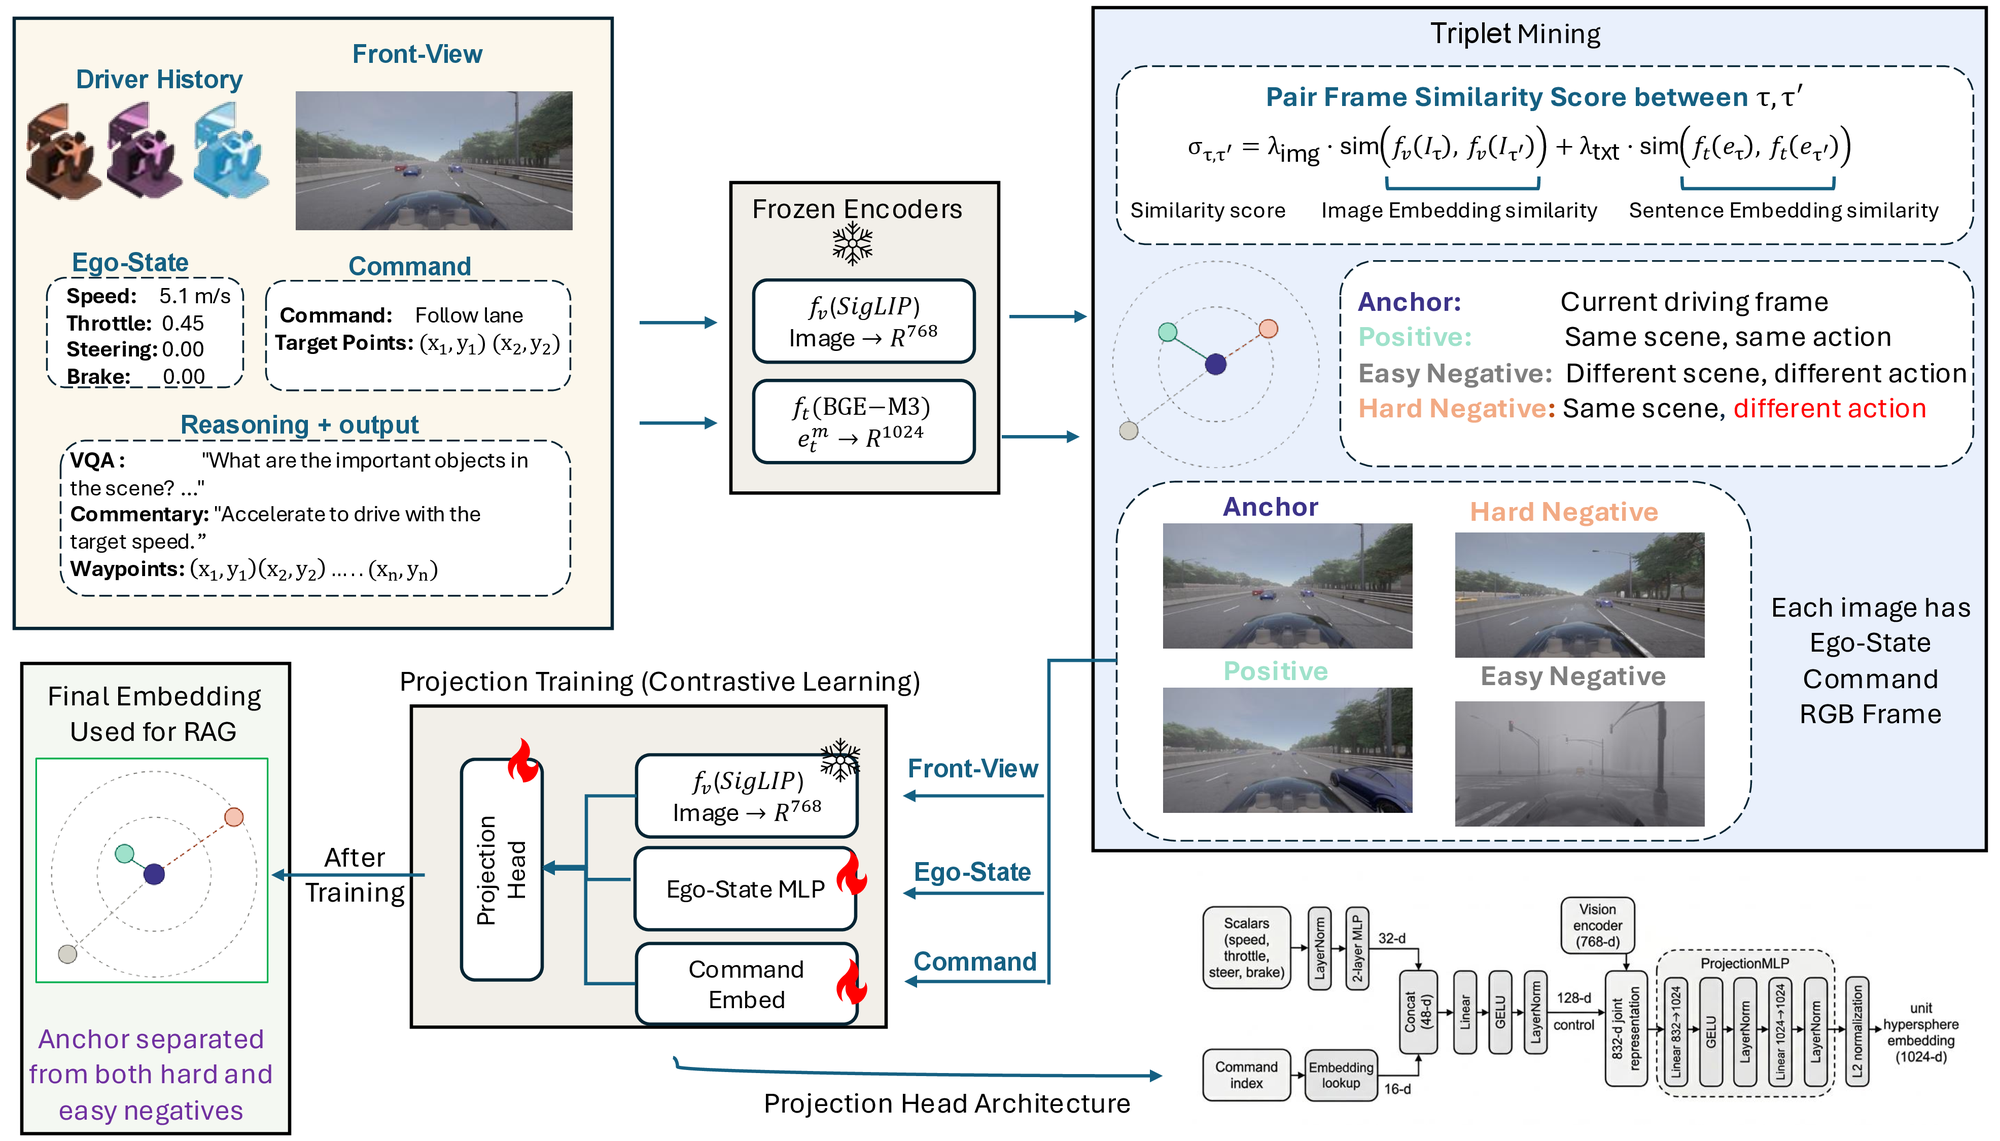
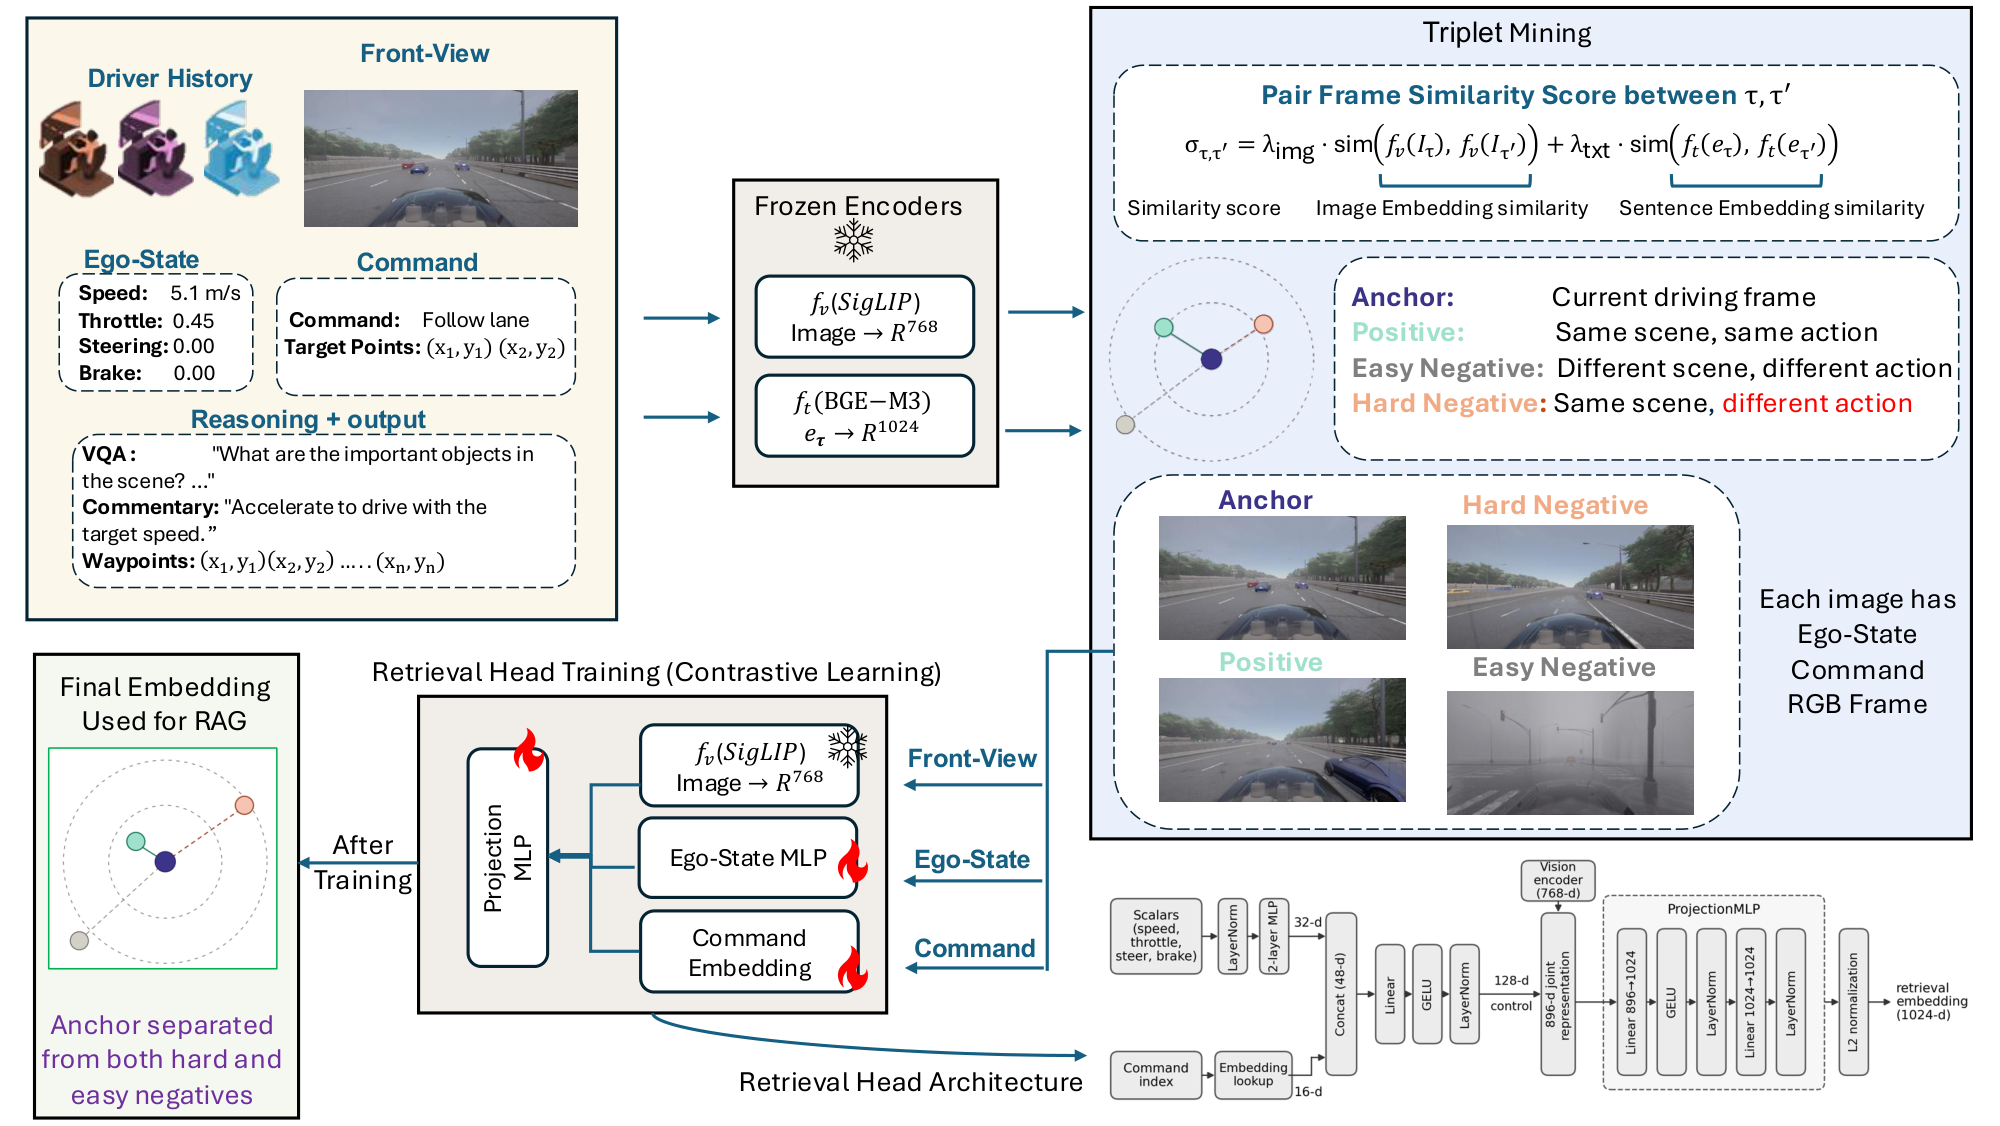
Match the WACV camera-ready: abstract, contributions, new Figure 3
- Abstract is the camera-ready abstract.
- Contributions and the motivation paragraph follow the paper (DS 6.7-11.6% over
  Drive My Way per style; synthetic style data among the indirect methods).
- Dataset: each participant drives each of their routes three times.
- Search/share descriptions no longer say 'database swap'.
- triplet.png re-rendered from the camera-ready Figure 3; sitemap lastmod.

diff --git a/index.html b/index.html
@@ -4,7 +4,7 @@
   <meta charset="utf-8">
   <meta name="viewport" content="width=device-width, initial-scale=1">
   <meta name="google-site-verification" content="H94OEA1dDngGpa_hpkiC9sqMeTe-Pmt7YJoAIQyXToQ">
-  <meta name="description" content="PersonaDrive (WACV 2027, UC Irvine) conditions a vision-language-action driving agent on retrieved human demonstrations from a style-instructed dataset for closed-loop CARLA simulation. Switching style is a single database swap.">
+  <meta name="description" content="PersonaDrive (WACV 2027, UC Irvine) conditions a vision-language-action driving agent on retrieved human demonstrations from a style-instructed dataset for closed-loop CARLA simulation. Switching style only means searching a different index, with no retraining.">
   <meta name="keywords" content="PersonaDrive, autonomous driving, vision-language-action, retrieval-augmented generation, driving style, CARLA, Bench2Drive">
   <title>PersonaDrive: Human-Style Retrieval-Augmented VLA Agents for Closed-Loop Driving Simulation</title>
   <link rel="canonical" href="https://pervasiveautonomylab.github.io/personadrive-landpage/">
@@ -13,13 +13,13 @@
   <meta property="og:site_name" content="PersonaDrive">
   <meta property="og:url" content="https://pervasiveautonomylab.github.io/personadrive-landpage/">
   <meta property="og:title" content="PersonaDrive: Human-Style Retrieval-Augmented VLA Agents for Closed-Loop Driving Simulation">
-  <meta property="og:description" content="A VLA driving agent conditioned on retrieved human demonstrations. Switching driving style is a single database swap.">
+  <meta property="og:description" content="A VLA driving agent that takes its driving style from retrieved human demonstrations. Switching style only means searching a different index, with no retraining.">
   <meta property="og:image" content="https://pervasiveautonomylab.github.io/personadrive-landpage/static/videos/teaser.jpg">
   <meta property="og:image:width" content="1280">
   <meta property="og:image:height" content="720">
   <meta name="twitter:card" content="summary_large_image">
   <meta name="twitter:title" content="PersonaDrive: Human-Style Retrieval-Augmented VLA Agents for Closed-Loop Driving Simulation">
-  <meta name="twitter:description" content="A VLA driving agent conditioned on retrieved human demonstrations. Switching driving style is a single database swap.">
+  <meta name="twitter:description" content="A VLA driving agent that takes its driving style from retrieved human demonstrations. Switching style only means searching a different index, with no retraining.">
   <meta name="twitter:image" content="https://pervasiveautonomylab.github.io/personadrive-landpage/static/videos/teaser.jpg">
 
   <script type="application/ld+json">
@@ -147,26 +147,26 @@
     <h2 class="title is-3 has-text-centered">Abstract</h2>
     <div class="content has-text-justified">
       <p>
-        Closed-loop driving simulators populate their environments with non-ego traffic agents that behave much the same
-        way, whether from rule-based traffic managers or from learned models trained toward a single behavioral mode.
-        Recent work introduces style variation through post-hoc labels or LLM-inferred reward weights, but these act as
-        proxies for what a style should reward rather than demonstrations of humans explicitly asked to drive in that style.
+        Closed-loop driving simulators mostly fill their environments with traffic agents that behave alike, whether
+        they are rule-based or learned. Recent methods that control driving style learn it from labels added to recorded
+        driving afterwards, from synthetic data generated to reflect each style, or from reward weights estimated by a
+        large language model (LLM). All of these are indirect estimates of a style, not recordings of people who were
+        instructed to drive in it.
       </p>
       <p>
-        We introduce PersonaDrive, a pipeline that conditions a vision-language-action (VLA) driving agent on retrieved
-        demonstrations from a style-instructed dataset in which 15 participants drive CARLA Leaderboard routes under
-        aggressive, neutral, and conservative instructions on a driver-in-the-loop rig. The pipeline mines behavioral
-        triplets offline with a combined image-text similarity score, trains a lightweight retrieval head fusing frozen
-        visual features with a small control encoder over per-style databases, and fine-tunes one VLA backbone to read
-        retrieved context points as in-context demonstrations. Switching style at inference is a single database swap, so
-        one set of weights serves every style with no per-style retraining.
+        We introduce PersonaDrive, a vision-language-action (VLA) driving agent that takes its style from retrieved
+        human demonstrations. The demonstrations come from a new dataset in which 15 participants drove CARLA routes on a
+        driving simulator under conservative, neutral, and aggressive instructions. PersonaDrive trains a lightweight
+        retrieval head on features from a frozen image encoder and on control signals over per-style databases, and
+        fine-tunes one VLA backbone over the retrieved demonstrations. Switching style only means searching a different
+        FAISS index, with no retraining.
       </p>
       <p>
-        On Bench2Drive, PersonaDrive (no style) improves the driving score by 4.6% over SimLingo and 2.5% over HiP-AD.
-        Under style conditioning it attains the highest driving score in every style within a 2.1-point band
-        (87.55–89.62), its weakest style surpassing the strongest baseline (DMW) by 5.8%, while average speed and
-        acceleration rise by 19.8% and 24.9% from the conservative to the aggressive instruction. Each agent is evaluated
-        individually as a driving policy.
+        On the Bench2Drive benchmark without style conditioning, PersonaDrive improves the Driving Score by 4.6% over
+        SimLingo and by 2.5% over HiP-AD, a gain that fine-tuning without retrieval does not reproduce. With style
+        conditioning, PersonaDrive outperforms the strongest baseline, Drive My Way, in every style, with a Driving Score
+        6.7% to 11.6% higher. Its driving also follows the instruction, since average speed rises by 19.8% from the
+        conservative to the aggressive style. Each traffic agent is evaluated individually as a driving policy.
       </p>
     </div>
   </div>
@@ -181,10 +181,10 @@
         Rule-based traffic managers and learned traffic models produce agents that behave alike. Real traffic spans
         conservative, neutral and aggressive drivers, and those differences matter most at merges, unprotected turns and
         in dense urban traffic, where the ego policy has to react to the people around it.</p>
-      <p><b>Why not style labels or reward weights?</b><br>
-        Existing personalization methods supervise style with post-hoc observational labels or with reward weights
-        inferred by an LLM. Both approximate what a style should reward. Neither records what people actually do when
-        they are asked to drive in that style.</p>
+      <p><b>Why not style labels, synthetic data or reward weights?</b><br>
+        Existing methods learn style from labels added to recorded driving afterwards, from synthetic data generated
+        for each style, or from reward weights inferred by an LLM. All of these are indirect estimates of a style.
+        None records what people actually do when they are asked to drive in it.</p>
       <p><b>What does PersonaDrive do instead?</b><br>
         We recorded people driving under explicit style instructions and store their frames in one database per style. At
         every tick, a retrieval head finds the most similar context points in the selected database, and the VLA backbone
@@ -194,19 +194,20 @@
     <h3 class="title is-4">Contributions</h3>
     <div class="content">
       <ol>
-        <li><b>A controlled style driving dataset.</b> 15 drivers drive CARLA Leaderboard routes under aggressive, neutral
-          and conservative instructions on a driver-in-the-loop rig. The design is paired at the route level, which
-          decouples style from driver identity (29,777 frames, 55 routes, 21 scenario types).</li>
-        <li><b>A style-conditioned triplet-RAG architecture.</b> We mine behavioral triplets (Stage 1), train a retrieval
-          head over per-style databases (Stage 2), and fine-tune the VLA backbone to read retrieved context points as
-          in-context demonstrations (Stage 3). Style control comes from retrieved human demonstrations, not from style
-          tokens, proxy rewards or per-style fine-tuning.</li>
+        <li><b>A controlled driving-style dataset.</b> 15 drivers drove CARLA Leaderboard scenarios in a
+          driver-in-the-loop setup, each of their routes three times: once conservatively, once neutrally and once
+          aggressively. Across these three drives, the driver and the route stay the same, and only the style the driver
+          was asked to follow changes (29,777 frames, 55 routes, 21 scenario types).</li>
+        <li><b>A retrieval-based architecture for driving style.</b> The style comes from retrieved human
+          demonstrations. The retrieval head is trained on triplets built from the human data: a positive has a similar
+          scene driven the same way, a hard negative has a similar scene driven differently (another speed or command),
+          and an easy negative differs in both scene and action. The VLA backbone then conditions its waypoints on the
+          retrieved demonstrations, so switching style only means searching a different FAISS index.</li>
         <li><b>Closed-loop results on Bench2Drive.</b> Without style, PersonaDrive improves the Driving Score by 4.6% over
-          SimLingo (88.95 vs. 85.07) and 2.5% over HiP-AD (86.77). With style conditioning it has the highest Driving
-          Score in every style, its weakest style still 5.8% above the strongest baseline (DMW), while speed and
-          acceleration rise 19.8% and 24.9% from the conservative to the aggressive instruction with no per-style
-          retraining. A retrieval-depth ablation shows open-loop and closed-loop accuracy moving together with the number
-          of retrieved demonstrations on a fixed checkpoint.</li>
+          SimLingo (88.95 vs. 85.07) and by 2.5% over HiP-AD (86.77), and fine-tuning without retrieval does not
+          reproduce this gain. With style, its Driving Score is 6.7% to 11.6% higher than that of the strongest baseline,
+          Drive My Way, in every style, while average speed rises by 19.8% from the conservative to the aggressive
+          style.</li>
       </ol>
     </div>
   </div>
@@ -231,7 +232,7 @@
         <p>Data comes from 15 non-professional drivers with valid licenses on a driver-in-the-loop rig: a Next Level
           Racing GTrack seat, three 50-inch monitors covering about 130° and a Logitech G923 wheel and pedals. CARLA runs
           in synchronous mode at 20 Hz. The ego vehicle is the only human-controlled actor and TrafficManager drives the
-          rest of the traffic. Each participant drives the routes in randomized order, once under each instruction.</p>
+          rest of the traffic. Each participant drives each of their routes three times, in random order, once under each instruction.</p>
       </div>
     </div>
 
